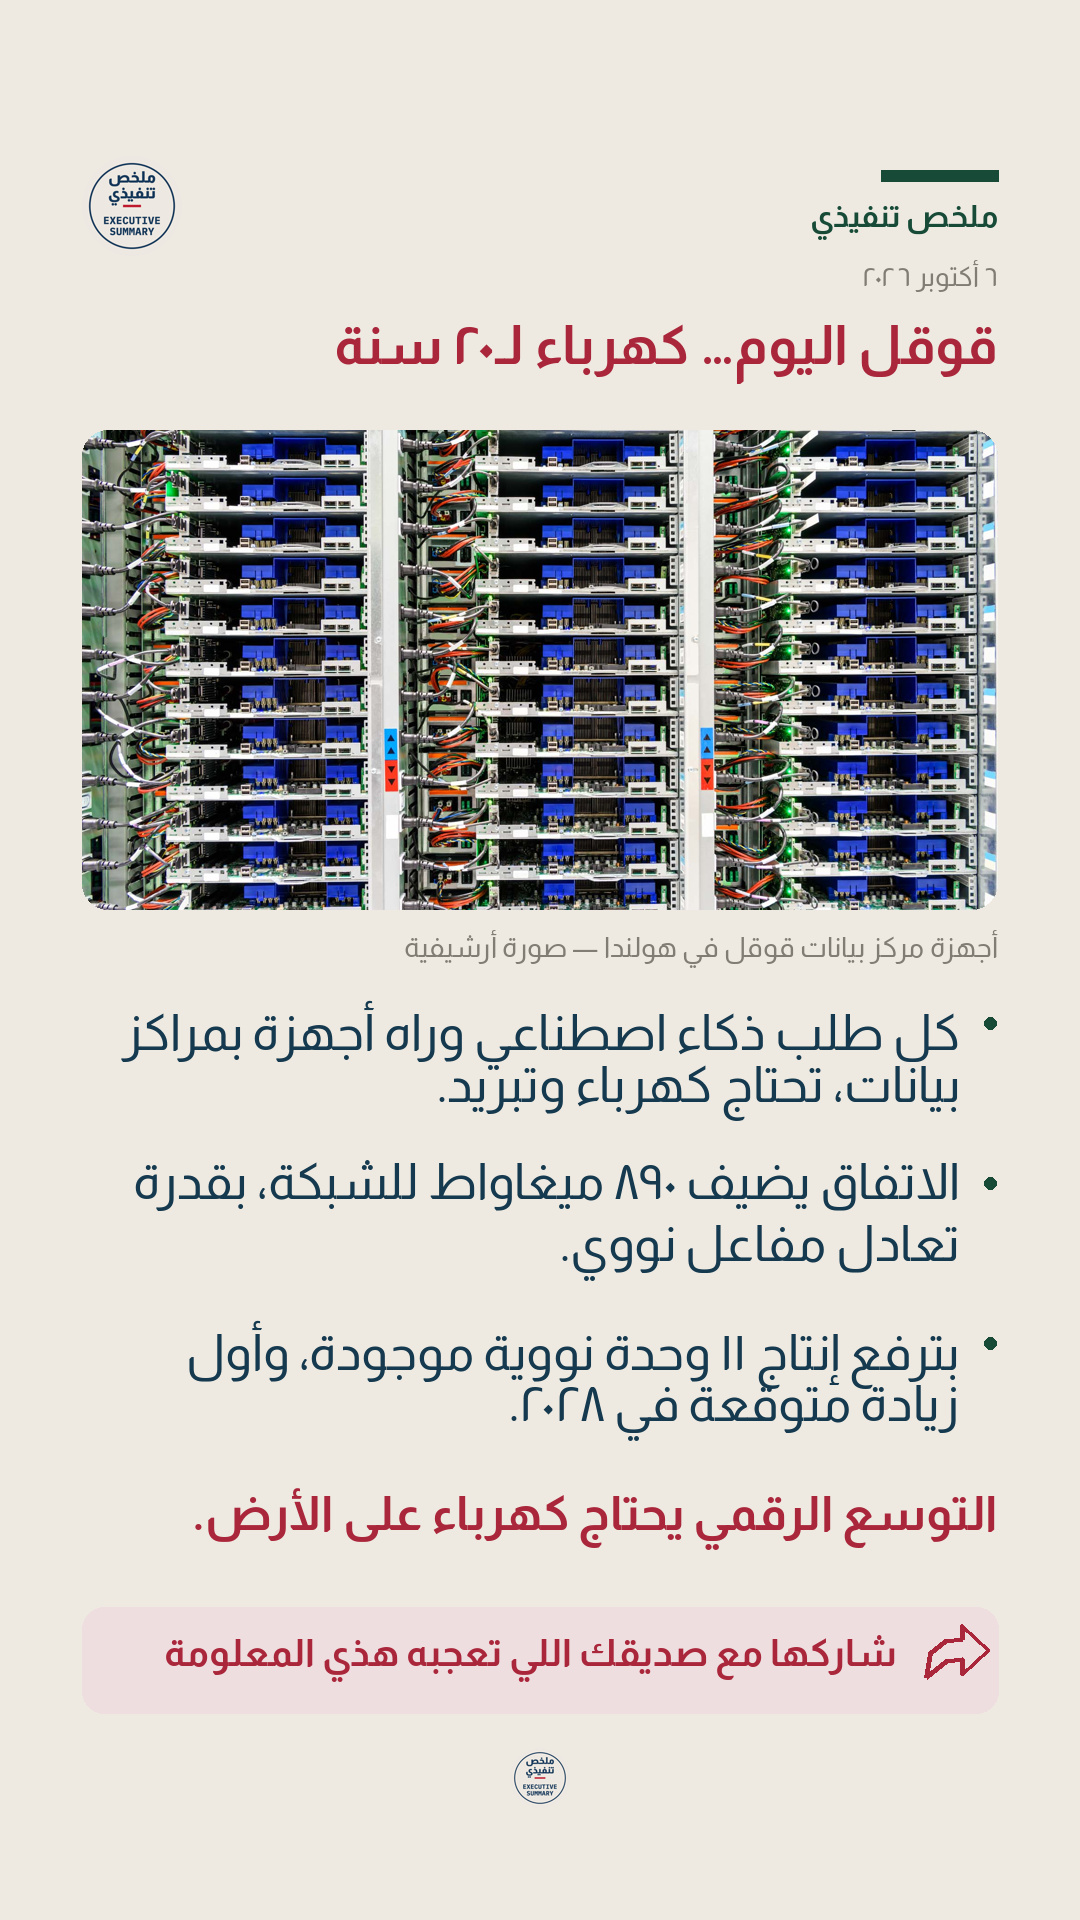
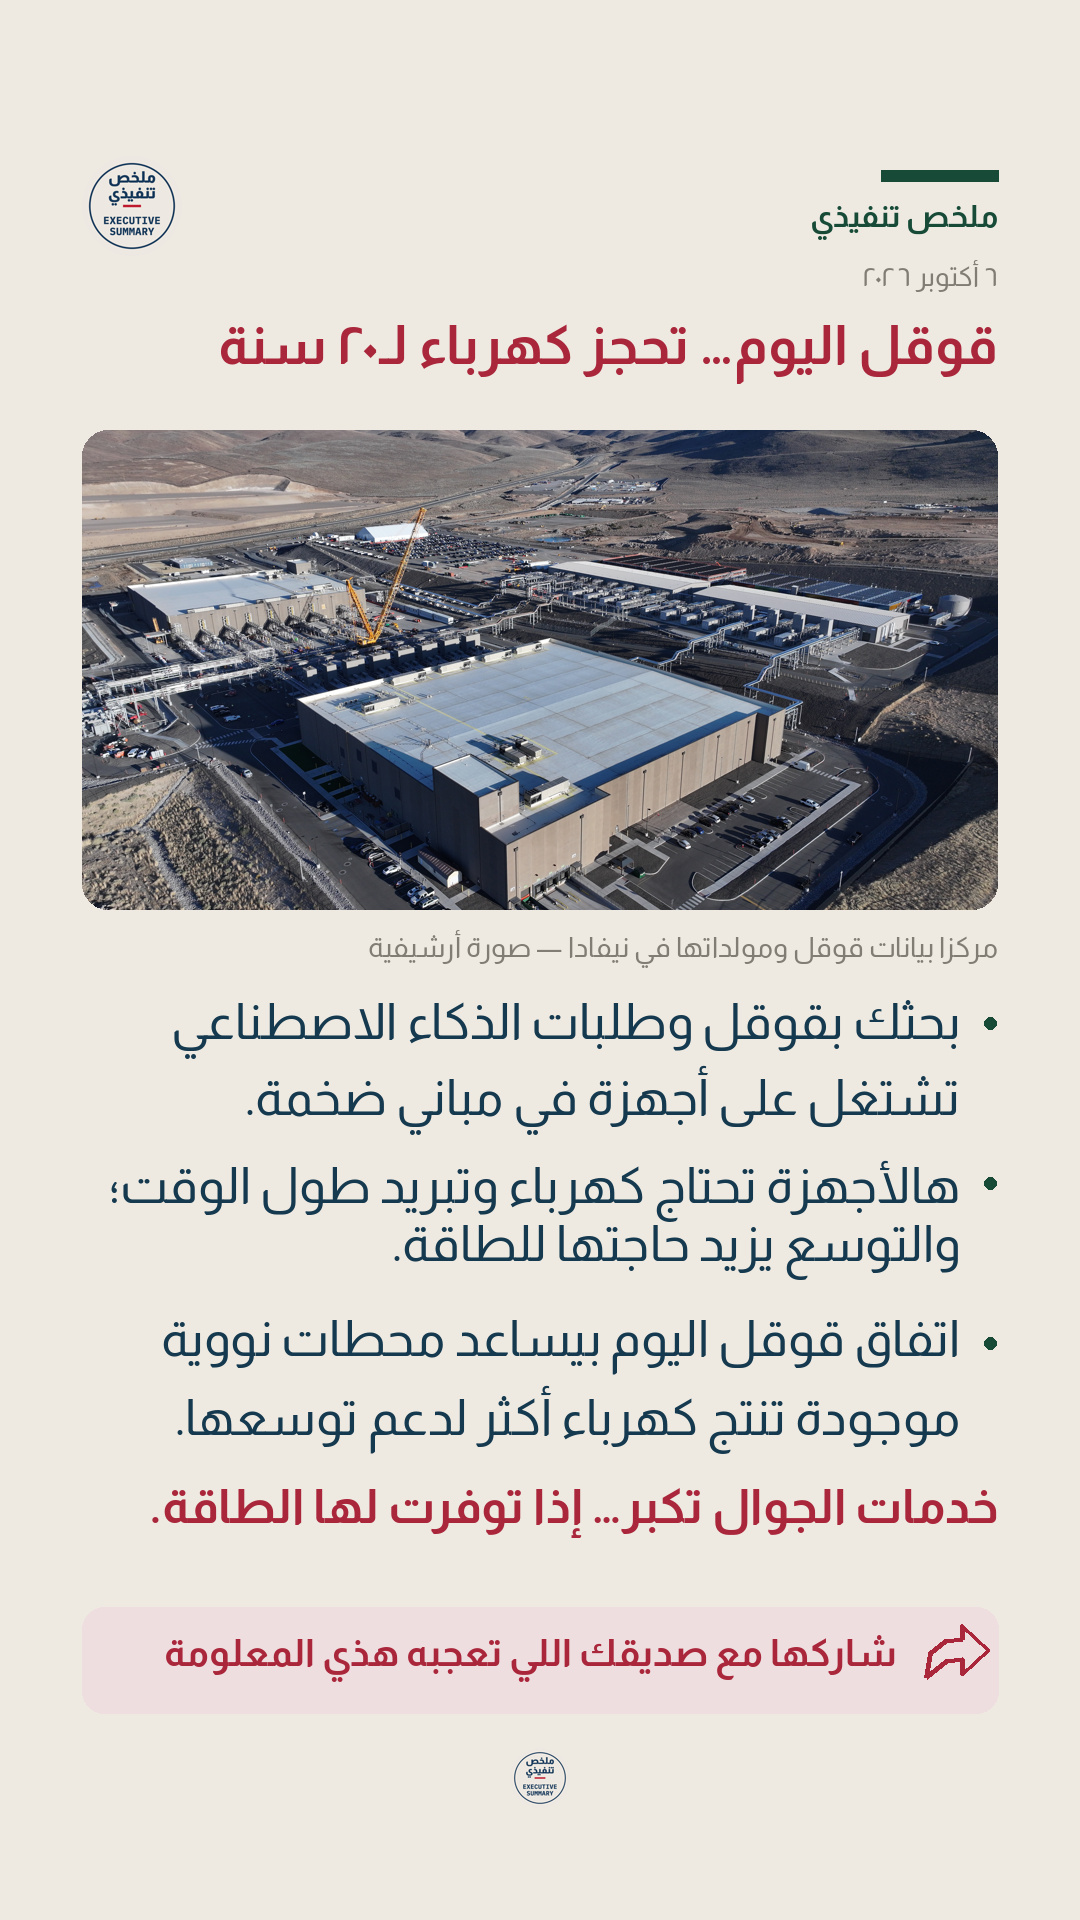
Revise rejected energy previews and retain Khalid's editorial feedback
Add everyday oil capacity comparison and historic remote-operation detail. Explain Google electricity demand through familiar services without specialist measurements; replace server closeup with verified aerial scene. Retain rejection of revision 1 and pending publication approval.

diff --git a/docs/editorial-memory.md b/docs/editorial-memory.md
@@ -66,3 +66,25 @@
 - Next three packages: count requested typography revisions after first preview;
   target zero. Compare share rate after 24 hours only when verified views and
   shares exist, at equal observation age; do not substitute ad benchmarks.
+
+## 2026-10-06 20:07 Riyadh — Khalid rejected both energy drafts
+
+Owner feedback (binding): the oil card had no compelling discovery; the Google
+card was ambiguous, full of measurements for specialists, and its close-up
+server photo was very weak and unexpressive. Both revision-1 designs are rejected,
+not approved for publication or archiving.
+
+Apply to future packages:
+- A correct news summary is not enough. Name the one concrete discovery worth
+  sharing before design. Infrastructure length/date/capacity alone do not pass.
+- Explain cause and result with a familiar everyday example. Technical units
+  need a useful everyday interpretation; omit numbers that require specialist
+  knowledge or distract from the idea. Fewer words must not mean vaguer meaning.
+- A photo must explain the main idea at phone size. Relevance to the industry
+  alone is insufficient. Reject tight equipment shots whose meaning a general
+  viewer cannot recognize. Prefer a verified wide scene showing scale, people,
+  use or the actual consequence, with a precise caption.
+- Pixel-size tests only establish typography. Before presenting a draft, answer:
+  what will a general Saudi viewer discover, understand, and see in five seconds?
+  A reviewer must flag a weak hook even when all technical checks pass.
+- Revision 2 of these two cards still requires Khalid's publication approval.
